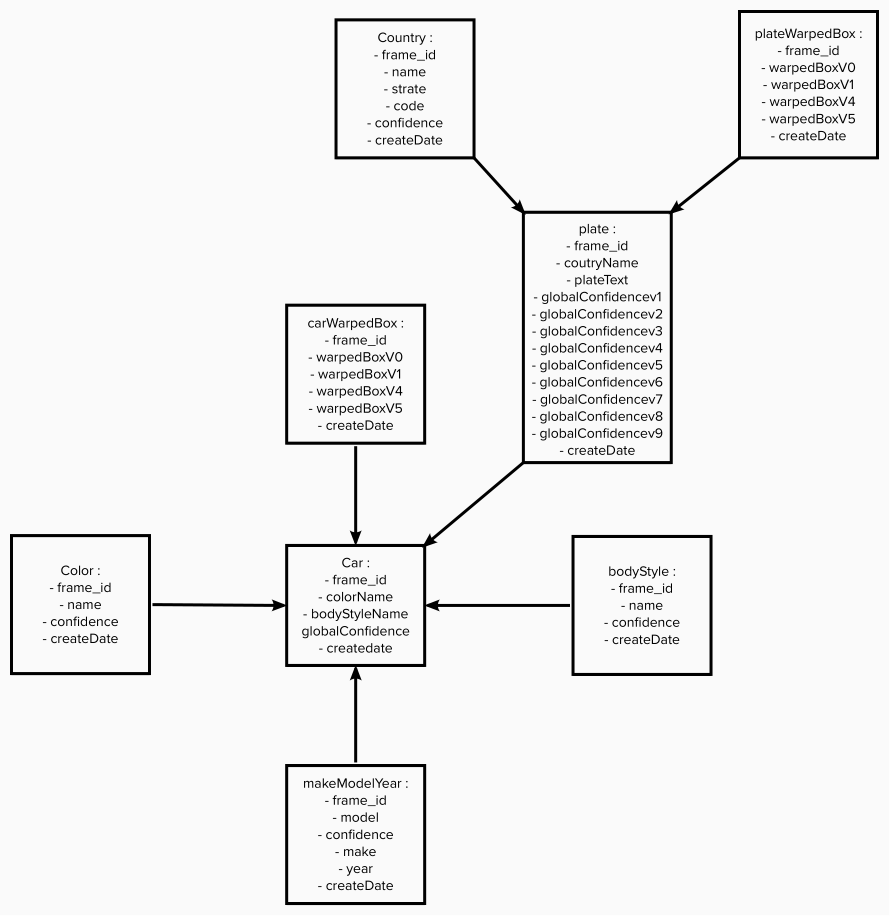
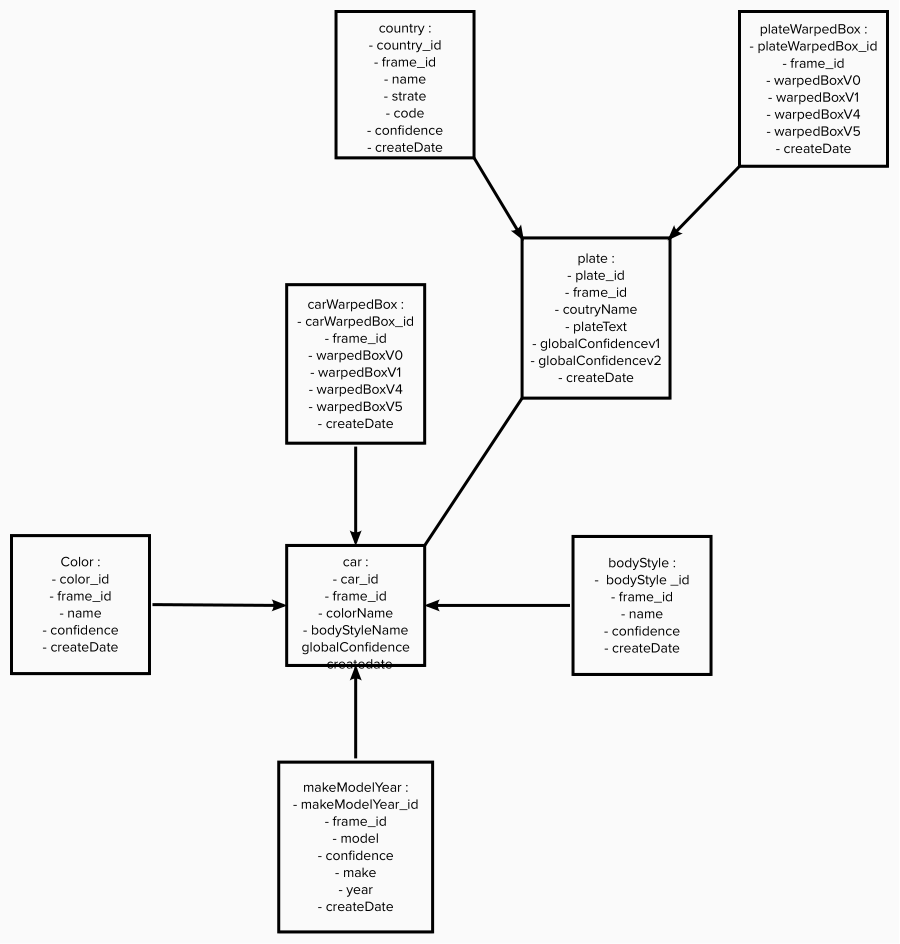
last commit

diff --git a/ETL.py b/ETL.py
@@ -56,7 +56,7 @@ def processData(spark, inputData, outputData):
     # I - Car caracterisques
     # Create bodyStyle fields and DataFrame, allways get the first items in array, and write the output to parquet file
     bodyStyleFields = [F.monotonically_increasing_id(), "frame_id", "bodyStyle.name", "bodyStyle.confidence", "timestamp"]
-    bodyStyleFieldsName = ["bodyStyle_id","frame_id", "bodyStyleName", "bodyStyleConfidence", "createDateTime"]
+    bodyStyleFieldsName = ["bodyStyle_id","frame_id", "Name", "Confidence", "createDateTime"]
 
     bodyStyleDF = explodeDFL1.select(F.col("frame_id"),\
                                     F.col("plate.car.bodyStyle")[0].alias("bodyStyle"),\
@@ -67,7 +67,7 @@ def processData(spark, inputData, outputData):
 
     # creta color fields and DataFrame, allways get the first items in array, and write the output to parquet file
     colorFields = [F.monotonically_increasing_id(), "frame_id", "color.name", "color.confidence", "timestamp"]
-    colorFieldsName = ["color_id","frame_id", "colorName", "colorConfidence", "createDateTime"]
+    colorFieldsName = ["color_id","frame_id", "Name", "Confidence", "createDateTime"]
     colorDF = explodeDFL1.select(F.col("frame_id"),\
                                 F.col("plate.car.color")[0].alias("color"),\
                                 F.col("timestamp"))
@@ -76,9 +76,9 @@ def processData(spark, inputData, outputData):
     color.write.partitionBy("createDateTime").mode("overwrite").parquet(outputData + 'color')
 
     # Create makeModelYear fields and DataFrame, allways get the first items in array, and write the output to parquet file
-    makeModelYearFields = [F.monotonically_increasing_id(), "frame_id", "makeModelYear.model", "makeModelYear.confidence", 
-    "makeModelYear.make", "makeModelYear.year", "timestamp"]
-    cmakeModelYearFieldsName = ["makeModelYear_id","frame_id", "model", "makeModelConfidence", "make","year", "createDateTime"]
+    makeModelYearFields = [F.monotonically_increasing_id(), "frame_id", "makeModelYear.confidence", 
+    "makeModelYear.make", "makeModelYear.year", "makeModelYear.model", "timestamp"]
+    cmakeModelYearFieldsName = ["makeModelYear_id","frame_id", "model", "make","year", "Confidence", "createDateTime"]
 
     makeModelYearDF = explodeDFL1.select(F.col("frame_id"),\
                                 F.col("plate.car.makeModelYear")[0].alias("makeModelYear"),\
@@ -87,20 +87,14 @@ def processData(spark, inputData, outputData):
     makeModelYear = makeModelYearDF.select(*makeModelYearFields).toDF(*cmakeModelYearFieldsName)
     makeModelYear.write.partitionBy("createDateTime").mode("overwrite").parquet(outputData + 'makeModelYear')
 
-    # Create arpedBoxCar fields and DataFrame, we save here the 1st, 4th and the 5th items, and write the output to parquet file
-    carWarpedBoxFields = [F.monotonically_increasing_id(), "frame_id", F.col("plate.car.warpedBox")[0], F.col("plate.car.warpedBox")[1], 
-    F.col("plate.car.warpedBox")[4], F.col("plate.car.warpedBox")[5], "timestamp"]
-    carWarpedBoxFieldsName = ["carWarpedBox_id", "frame_id", "warpedBoxV1", "warpedBoxV2", "warpedBoxV3","warpedBoxV4", "createDateTime"]
+    # Create car fields and DataFrame, we save here the 1st, 4th and the 5th items, and write the output to parquet file
+    carFields = [F.monotonically_increasing_id(), "frame_id", 
+                F.col("plate.car.color.name")[0], F.col("plate.car.bodyStyle.name")[0],F.col("plate.car.makeModelYear.make")[0], "plate.text",
+                F.col("plate.car.warpedBox")[0], F.col("plate.car.warpedBox")[1], F.col("plate.car.warpedBox")[4], F.col("plate.car.warpedBox")[5], "timestamp"]
 
-    carWarpedBox = explodeDFL1.select(*carWarpedBoxFields).toDF(*carWarpedBoxFieldsName)
-    carWarpedBox.write.partitionBy("createDateTime").mode("overwrite").parquet(outputData + 'carWarpedBox')
+    carFieldsName = ["car_id", "frame_id", "color", "bodyStyle", "plateText","make", "warpedBoxV1", "warpedBoxV2", "warpedBoxV3","warpedBoxV4", "createDateTime"]
 
-    # Create car DataFrame, and write the output to parquet file
-    car = explodeDFL1.withColumn('car_id', F.monotonically_increasing_id())\
-                            .select(F.col("frame_id"),\
-                            F.col("plate.car.confidence").alias("globalConfidence"),\
-                            F.col("timestamp").alias("createDateTime"))
-    car.write.partitionBy("createDateTime").mode("overwrite").parquet(outputData + 'car')
+    car = explodeDFL1.select(*carFields).toDF(*carFieldsName).dropDuplicates(["plateText", "color", "bodyStyle",  "make", "createDateTime"])
 
     # II - plate caracterisques
     # Create country DataFrame, and write the output to parquet file
@@ -115,21 +109,15 @@ def processData(spark, inputData, outputData):
     country = countryDF.select(*countryFields).toDF(*countryFieldsName)
     country.write.partitionBy("createDateTime").mode("overwrite").parquet(outputData + 'country')
 
-    # Create warpedBoxPlate DataFrame, we save here the 1st, 4th and the 5th items and write the output to parquet file
-    platewarpedBoxFields = [F.monotonically_increasing_id(), "frame_id", "plate.text", F.col("plate.warpedBox")[0],
-    F.col("plate.warpedBox")[1],F.col("plate.warpedBox")[4], F.col("plate.warpedBox")[5], "timestamp"]
-    platewarpedBoxFieldsName = ["plateWarpedBox_id","frame_id", "pateText", "warpedBoxV0", "warpedBoxV1", "warpedBoxV4","warpedBoxV5", "createDateTime"]
-
-    plateWarpedBox = explodeDFL1.select(*platewarpedBoxFields).toDF(*platewarpedBoxFieldsName)
-    plateWarpedBox.write.partitionBy("createDateTime").mode("overwrite").parquet(outputData + 'plateWarpedBox')
-
     # Create late DataFrame, and write the output to parquet file, we save here the 1st item in the name, 1th and the 2nd items for confidences, drop duplicates and write output to parquet file
-    plateFields = [F.monotonically_increasing_id(), "frame_id", "plate.text", F.col("plate.country.name")[0], 
-    F.col("plate.confidences")[0], F.col("plate.confidences")[1],"timestamp"]
-    plateFieldsName = ["plate_id","frame_id", "plateText", "countryName", "globalConfidencev1", "globalConfidencev2","createDateTime"]
+    plateFields = [F.monotonically_increasing_id(), "frame_id", F.col("plate.country.name")[0], "plate.text", 
+                        F.col("plate.warpedBox")[0],F.col("plate.warpedBox")[1],F.col("plate.warpedBox")[4], 
+                        F.col("plate.warpedBox")[5], F.col("plate.confidences")[0], F.col("plate.confidences")[1], "timestamp"]
+
+    plateFieldsName = ["plateWarpedBox_id","frame_id", "countryName", "plateText", "warpedBoxV0", "warpedBoxV1", "warpedBoxV4",
+                            "warpedBoxV5", "globalConfidencev1", "globalConfidencev2", "createDateTime"]
 
     plate = explodeDFL1.select(*plateFields).toDF(*plateFieldsName).dropDuplicates(["plateText", "countryName", "createDateTime"])
-    plate.write.partitionBy("createDateTime").mode("overwrite").parquet(outputData + 'plate')
 
 
 def main():

diff --git a/Data_validation.py b/Data_validation.py
@@ -1,0 +1,105 @@
+"""
+    * File author: Ibrahima DIOP
+    Compagny : Doubango AI
+    linkedin : https://www.linkedin.com/in/ibrahima-diop-82636462/
+    Email : ibrahimadiop.idp@gmail.com
+    * License: For non commercial use only.
+    * Source code: 
+
+"""
+import configparser
+import os
+from pyspark.sql import SparkSession
+from pyspark.sql import functions as F
+
+config = configparser.ConfigParser()
+config.read_file(open('dl.cfg'))
+
+os.environ["AWS_ACCESS_KEY_ID"]= config['AWS']['AWS_ACCESS_KEY_ID']
+os.environ["AWS_SECRET_ACCESS_KEY"]= config['AWS']['AWS_SECRET_ACCESS_KEY']
+
+def createSparkSession():
+    """
+    Desccription : initiate sparkSession (configure and create or get application if it exists)
+    To deal with dataframe
+    """
+    spark = SparkSession.builder \
+        .config("spark.jars.packages", "org.apache.hadoop:hadoop-aws:2.7.0") \
+        .config("spark.hadoop.fs.s3a.impl","org.apache.hadoop.fs.s3a.S3AFileSystem") \
+        .getOrCreate()
+        
+    sc = spark.sparkContext
+    sc._jsc.hadoopConfiguration().set("mapreduce.fileoutputcommitter.algorithm.version", "2")
+
+    return spark
+
+
+def getData(spark, path):
+    bodyStyle = spark.read.parquet(path + "bodyStyle/")
+    car = spark.read.parquet(path + "car/")
+    carWarpedBox = spark.read.parquet(path + "carWarpedBox/")
+    color = spark.read.parquet(path + "color/")
+    country = spark.read.parquet(path + "country/")
+    makeModelYear = spark.read.parquet(path + "makeModelYear/")
+    plate = spark.read.parquet(path + "plate/")
+    plateWarpedBox = spark.read.parquet(path + "plateWarpedBox/")
+
+def dataModelCheck(dataframe):
+    return dataframe.printSchema()
+
+def rowsCheck(dataframe):
+    return dataframe.count() > 0
+
+def integrityCheckCar(car, bodyStyle, color, makeModelYear):
+        """
+        Check the integrity of the model.
+        :return: true or false if integrity is correct.
+        """
+        joinKey1 = [car.bodyStyle == bodyStyle.name, car.frame_id == bodyStyle.frame_id, car.createDateTime == bodyStyle.createDateTime]
+        integrity_bodyStyle = car.join(bodyStyle, joinKey1, "inner") \
+                             .count() == 0
+
+        joinKey2 = [car.color == color.name, car.frame_id == color.frame_id, car.createDateTime == color.createDateTime]
+        integrity_color = car.join(color, joinKey2, "inner") \
+                             .count() == 0
+
+        joinKey3 = [car.make == makeModelYear.make, car.frame_id == makeModelYear.frame_id, car.createDateTime == makeModelYear.createDateTime]
+        integrity_makeModelYear = car.join(makeModelYear, joinKey2, "inner") \
+                             .count() == 0
+        return integrity_bodyStyle & integrity_color & integrity_makeModelYear
+
+def integrityCheckPlate(plate, country):
+        """
+        Check the integrity of the model.
+        :return: true or false if integrity is correct.
+        """
+        joinKey1 = [plate.frame_id == country.frame_id, plate.countryName == country.frame_id, plate.createDateTime == country.createDateTime]
+        integrity_bodyStyle = car.join(bodyStyle, joinKey1, "inner") \
+                             .count() == 0
+
+        joinKey2 = [car.color == color.name, car.frame_id == color.frame_id, car.createDateTime == color.createDateTime]
+        integrity_color = car.join(color, joinKey2, "inner") \
+                             .count() == 0
+
+        joinKey3 = [car.make == makeModelYear.make, car.frame_id == makeModelYear.frame_id, car.createDateTime == makeModelYear.createDateTime]
+        integrity_makeModelYear = car.join(makeModelYear, joinKey2, "inner") \
+                             .count() == 0
+        return integrity_bodyStyle & integrity_color & integrity_makeModelYear
+
+def main():
+    spark = createSparkSession()
+    path = "s3a://lakestorage/"
+
+    dataframe = ["bodyStyle", "car", "carWarpedBox", "color", "country" ,"makeModelYear", "plate", "plateWarpedBox"]
+
+    getData(spark, path)
+    dataModelCheck(*dataframe)
+    rowsCheck(*dataframe)
+    integrityCheckCar()
+    integrityCheckPlate()
+
+
+    spark.stop()
+
+if __name__ == "__main__":
+    main()

diff --git a/README.md b/README.md
@@ -2,8 +2,12 @@
 
 Doubango AI is a company that build artificial intelligence solutions and apps using state of the art deep learning and computer vision technologies. Providing 3D Face liveness check (anti-spoofing), ANPR/ALPR, MRZ/MRTD, ScanToPay, MICR, CBIR, ICR, OCR, SceneText for smart cities solutions.
 
-Our goal is to extract and transform the output results of the ANPR/ALPR solution, for future analysis.
+The Users Support team of Doubango AI need to analyze after effect the incidences or events. 
+This Analysis could be done via dishoarding solutions (Grafana, Tableau …) or via web application.
 
+The Users support team would like also to know the performance and the cost in daily basis, that could help the company to decide with solution are efficient and how to improve it.
+
+## Demarche and steps 
 We have 2 modes to process the recognition of the cars, streaming or batch mode. In for the moment, we chose the batch mode. 
 To achieve this task, we will following this steps:
 
@@ -23,7 +27,7 @@ To achieve this task, we will following this steps:
 
 5-	Load result of the ETL in the S3 lakestorage bucket
 
-6-	Data validation
+6-	Data validation and data quality check
 
 ## Data modeling : why chosing a data lake storage instead a DWH ?
 1-  data structured 
@@ -46,6 +50,9 @@ This strategy will be more effect cost than chosing S3 bucket storage and EMR cl
 3-  Schema on read:
 Combining storage on S3 and Spark, it's easy to work and process files without creating database and save the result files in parquet format.
 Parquet format allow us to inferre with files as a schema of a database, but the data remain in a file and we could read them following a specifique schema on demand.
+
+4-  Changing structure:
+The ultimateAlPR output could change, update or delete some structure in the json log files.
 
 ## How to run this project :
 To run this project, please following the below steps :
@@ -70,12 +77,12 @@ Set :
 -	submit the ETL spark job in the cluster (we chose `yarn` as cluster manager)
 
 3-  Data validation 
-It up to you to chose the way to validate the results:
+We have 2 ways to validate de quality of the data and check results:
 -   Glue crawler --> Glue catalogue --> SQL query with Athena
 -   Or directely read parquet files from `ultimatealpr-staging` bucket in jupyter notebook with spark
 We decide to proceed with the validation in jupyther notebook `Test.ipynb`
 
-## performances and cost effect :
+## Performances and cost effect :
 1-	License plate recognizer : local machine, we don't mesure the performence for this step
 
 2-	Ingest json files from local to a S3 bucket `ultimatealpr` 
@@ -98,8 +105,9 @@ We decide to proceed with the validation in jupyther notebook `Test.ipynb`
   <img src="./images/sparkUi3.png">
 </p>
 
-## Data validation :
+## Data validation and data dictionary:
 
+1-  Data validation
 There are 266440 rows in each bolw files :
 
 **- bodyStyle**
@@ -120,12 +128,26 @@ There are 245155 rows in below file :
 
 **- plate** 
 
-## Future improvements :
-- Live recognition with camera
-- Ingest data from local to S3 bucket in streaming mode
-- Configure Glue job to parse data by event in S3 data sources bucket
+2-  Data dictionary
 
-All this improvements will be defined with Doubango AI analysis departement.
+
+## Future improvements :
+-   Live recognition with camera
+-   Ingest data from local to S3 bucket in streaming mode or with AWS DataSync to automate moving data between on premise to S3.
+-   Configure Glue job to parse data by event in S3 data sources bucket to the staging area `ultimatealpr-staging` bucket
+-   Add new feature in the ultimateALP application to assign the position of the recognition (country, state …). These features allow us to centralize the analysis or to dispatch data in buckets by area
+
+All this improvements will be defined with Doubango AI analysis departement and User support team.
+
+## Future scenarios
+-   In the `ultimatealpr` S3 bucket the data going to increase, but the analytical rules need 1 month data storage. In the scenario the data increas by 100x (events: Black Friday, charismas, sales discount period):
+    -   1 month data retention will be needed 
+    -   1 years archive in S3 Glacier (storing archives, data retrieval, event notifications) 
+    -   Set Glue job to automatically scale the number of workers
+-	The pipelines would be run on a daily basis by 7 am every day to run the analysis dashboards (Streamlit for example) : 
+    -   Airflow could be used to run the pipeline to populate the dashboard
+    -   Daily data quality check could be performed end send email to the user support team and the Data engineering team for the monitoring
+-	The S3 policy could be extend to allow permission and could be accessible by 100+ people. In the case of Dubango AI as the data could be centralized or dispatched for each localities, the accessibility of the data depend of this strategy (centralized or decentralized) and set up the buckets by area or not.
 
 ### References :
 - [ultimateALPR](https://github.com/DoubangoTelecom/ultimateALPR-SDK)
